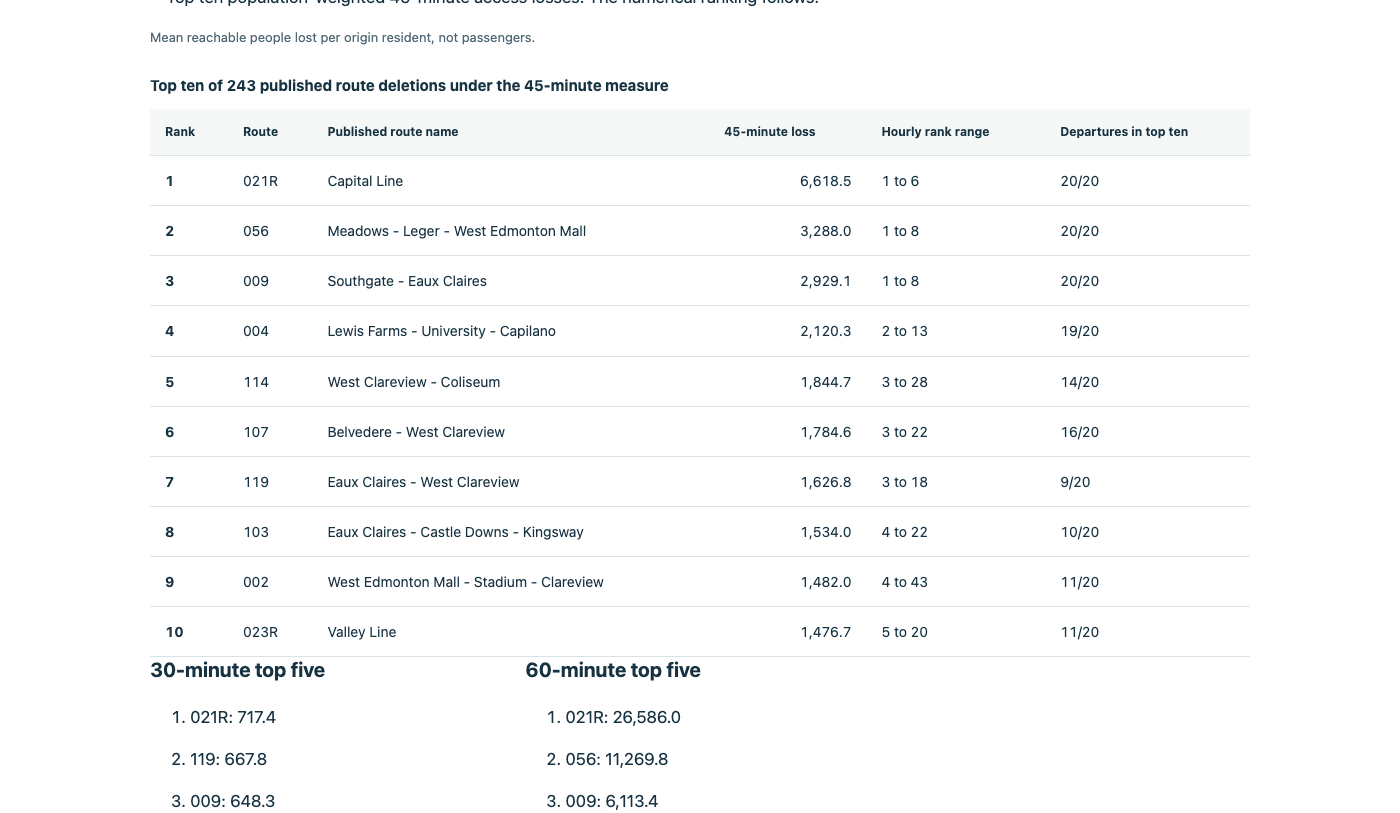
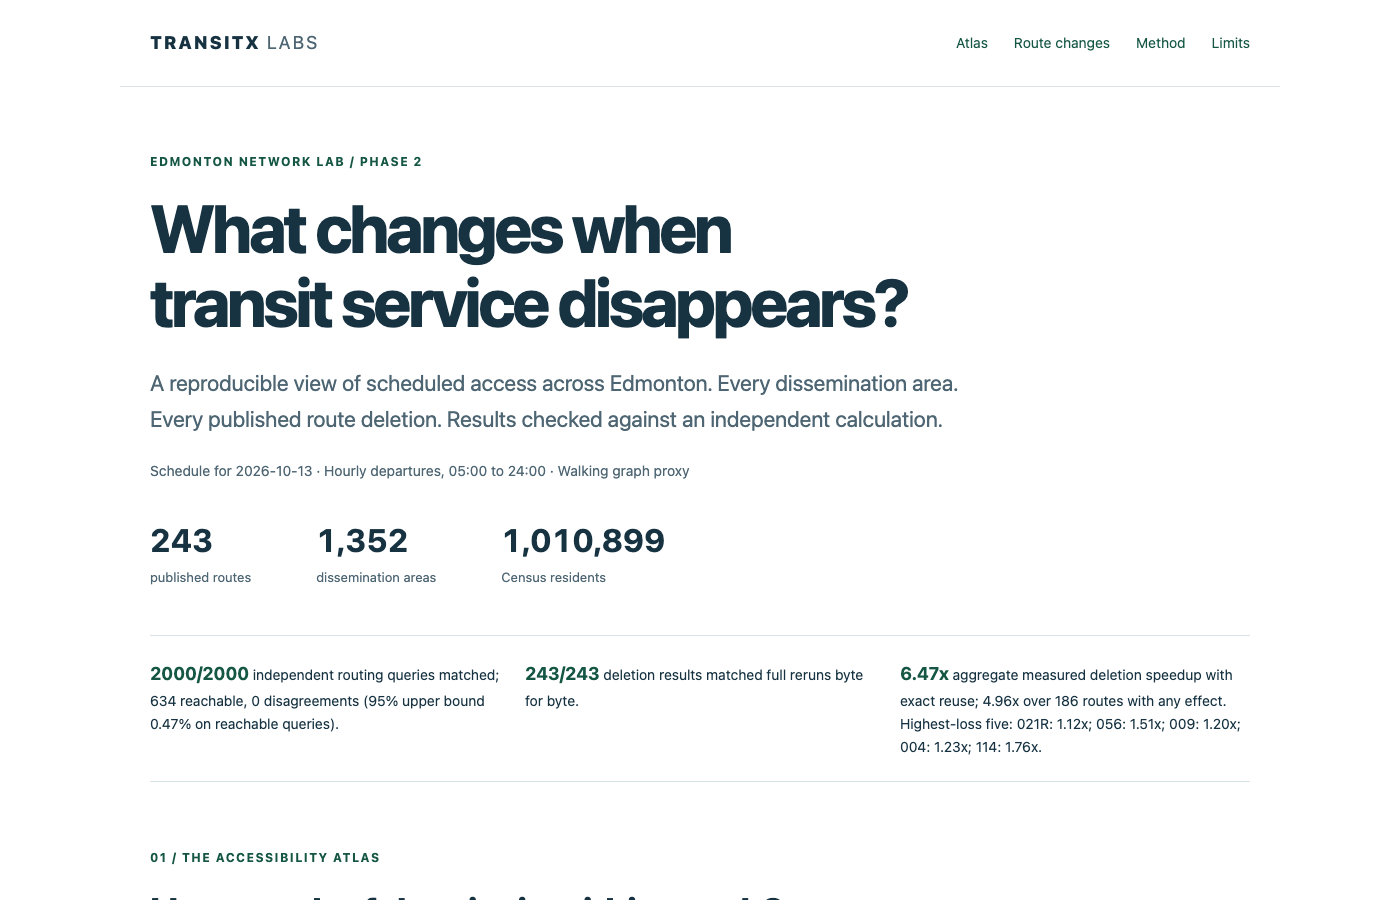
Keep the hero at the top of the atlas, write valid WebVTT and break captions cleanly

diff --git a/scripts/make_showcase_media.py b/scripts/make_showcase_media.py
@@ -14,6 +14,7 @@ import socket
 import struct
 import subprocess
 import sys
+import tempfile
 import threading
 import time
 import urllib.parse
@@ -386,7 +387,7 @@ def strip_images(paths: list[Path]) -> None:
 
 def vtt_timestamp(sec: float) -> str:
     m, s = divmod(sec, 60)
-    return f"00:{int(m):02d}:{s:06.3f}".replace(".", ",")
+    return f"00:{int(m):02d}:{s:06.3f}"  # WebVTT uses a full stop before the milliseconds
 
 
 def escape_drawtext(text: str) -> str:
@@ -409,32 +410,35 @@ def wrap_caption(text: str, max_len: int = 52) -> str:
             current.append(word)
     if current:
         lines.append(" ".join(current))
-    return "\\n".join(lines[:2])
+    return "\n".join(lines[:2])
 
 
 def burn_caption_on_frame_from_str(frame: Path, caption: str, captioned: Path) -> None:
-    wrapped = wrap_caption(caption)
-    text = escape_drawtext(wrapped)
-    vf = (
-        f"drawtext=text='{text}':fontsize={CAPTION_FONT}:fontcolor=white:"
-        "box=1:boxcolor=black@0.78:boxborderw=14:"
-        "line_spacing=8:x=(w-text_w)/2:y=h-th-36"
-    )
-    subprocess.run(
-        [
-            FFMPEG,
-            "-y",
-            "-i",
-            str(frame),
-            "-vf",
-            vf,
-            "-map_metadata",
-            "-1",
-            str(captioned),
-        ],
-        check=True,
-        capture_output=True,
-    )
+    # The caption goes through a text file, so its line break is a real one and nothing in it is escaped or expanded.
+    with tempfile.TemporaryDirectory() as tmp:
+        text_file = Path(tmp) / "caption.txt"
+        text_file.write_text(wrap_caption(caption), encoding="utf-8")
+        vf = (
+            f"drawtext=textfile='{escape_drawtext(str(text_file))}':expansion=none:"
+            f"fontsize={CAPTION_FONT}:fontcolor=white:"
+            "box=1:boxcolor=black@0.78:boxborderw=14:"
+            "line_spacing=8:x=(w-text_w)/2:y=h-th-36"
+        )
+        subprocess.run(
+            [
+                FFMPEG,
+                "-y",
+                "-i",
+                str(frame),
+                "-vf",
+                vf,
+                "-map_metadata",
+                "-1",
+                str(captioned),
+            ],
+            check=True,
+            capture_output=True,
+        )
 
 
 def export_chart_pngs(port: int, browser: HeadlessChrome) -> list[Path]:
@@ -531,14 +535,9 @@ def main() -> int:
     browser = HeadlessChrome()
     base = f"http://127.0.0.1:{port}"
 
+    # The hero is the top of the atlas page (its question and headline counts), as the README's alt text describes.
     hero = MEDIA / "hero-atlas.png"
-    browser.screenshot_section(
-        f"{base}/index.html",
-        "#routes .table-wrap",
-        hero,
-        step_id=0,
-        must_contain="Capital Line",
-    )
+    chrome_screenshot(f"{base}/index.html", hero)
 
     frames: list[Path] = []
     captioned_frames: list[Path] = []
